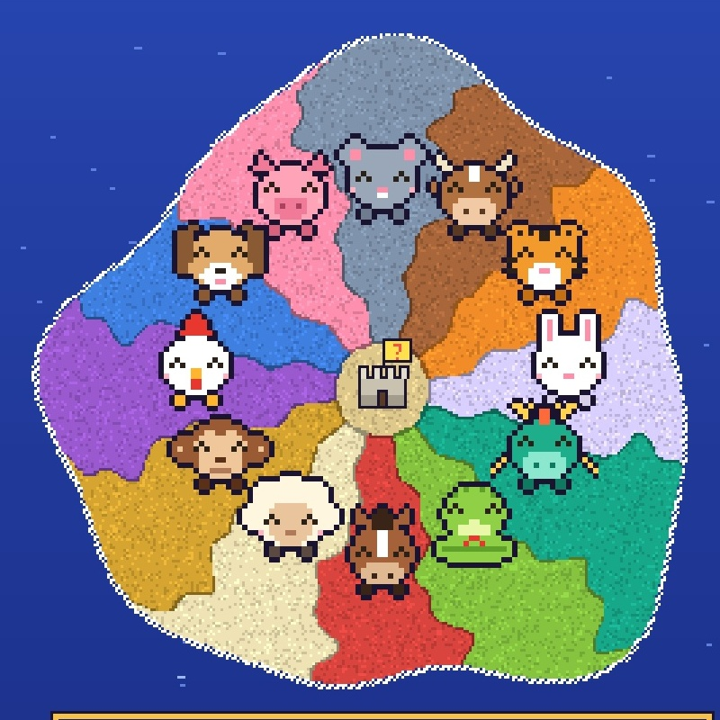
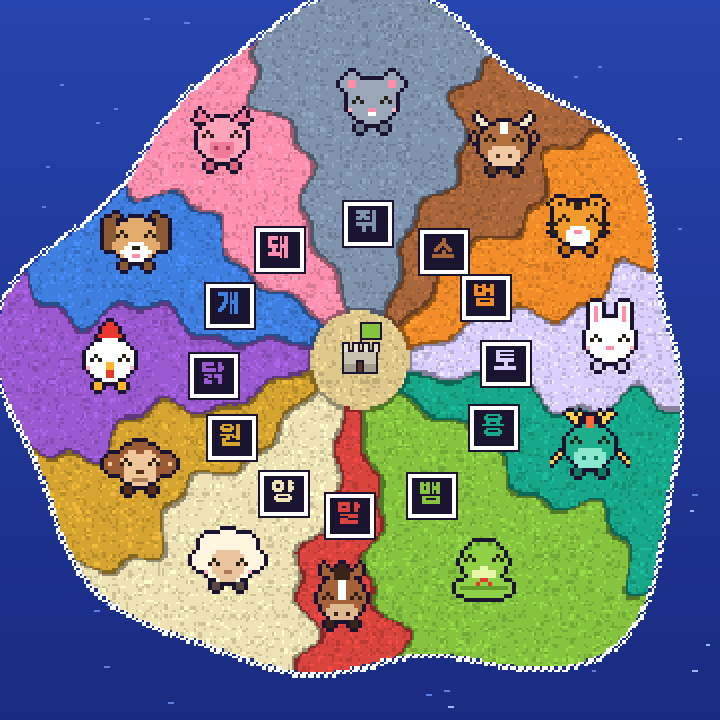
DAY 1 확정 결과 반영: 뱀 1등·범 꼴찌, 마감 날짜 표시 수정

diff --git a/index.html b/index.html
@@ -95,7 +95,7 @@ fetch('state.json?' + Date.now()).then(r => r.json()).then(s => {
   if (s.note) { $('note').textContent = '집계 중! 아래는 확정 전 숫자예요.'; $('note').hidden = false; }
   const sol = NAMES.map(n => s.soldiers[n]), w = NAMES.map((_, k) => ((k < 11 ? s.borders[k + 1] : s.borders[0] + 12) - s.borders[k]) / 12 * 100);
   const order = NAMES.map((_, i) => i).sort((a, b) => sol[b] - sol[a]), max = sol[order[0]] || 1;
-  const d = new Date(s.cutoff), when = `${d.getMonth() + 1}월 ${d.getDate()}일 밤 9시 마감`;
+  const d = new Date(s.cutoff < 1e12 ? s.cutoff * 1000 : s.cutoff), when =`${d.getMonth() + 1}월 ${d.getDate()}일 밤 9시 마감`;
   $('sumT').textContent = `DAY ${s.day} 결과`;
   $('sumL').innerHTML = `<li>댓글 <em>${num(s.total_comments)}개</em>, <em>${num(s.total_people)}명</em>이 싸웠어요.</li>
     <li>1등 <em>${FULL[s.top]}띠</em>가 가운데 성을 차지했어요.</li>
